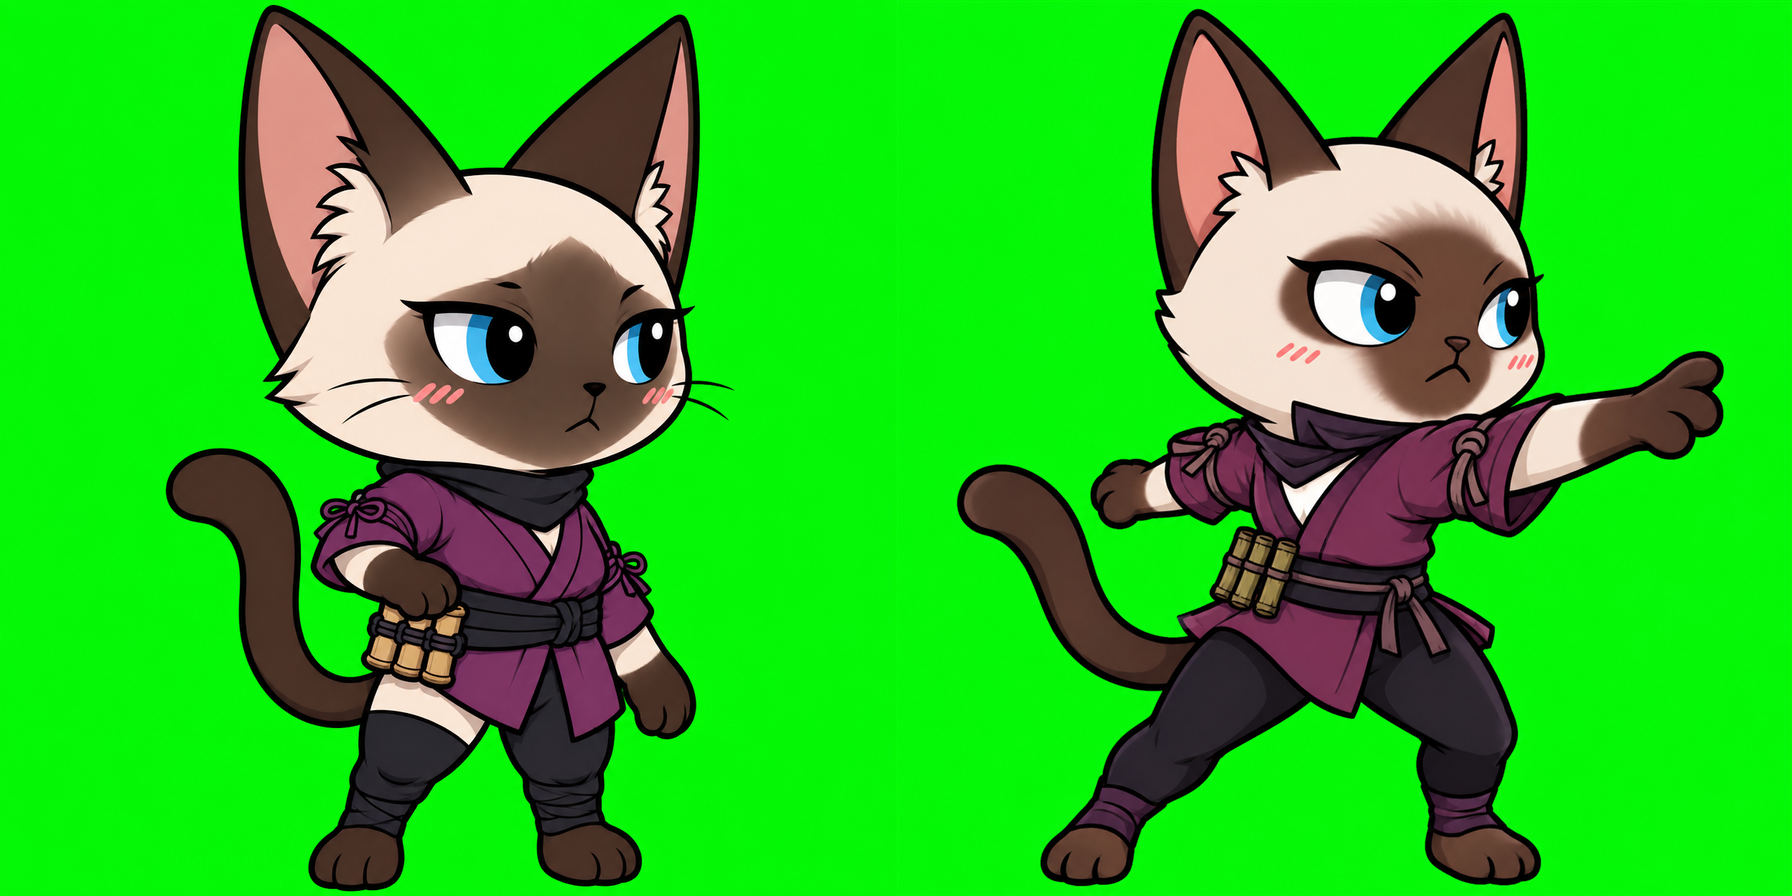
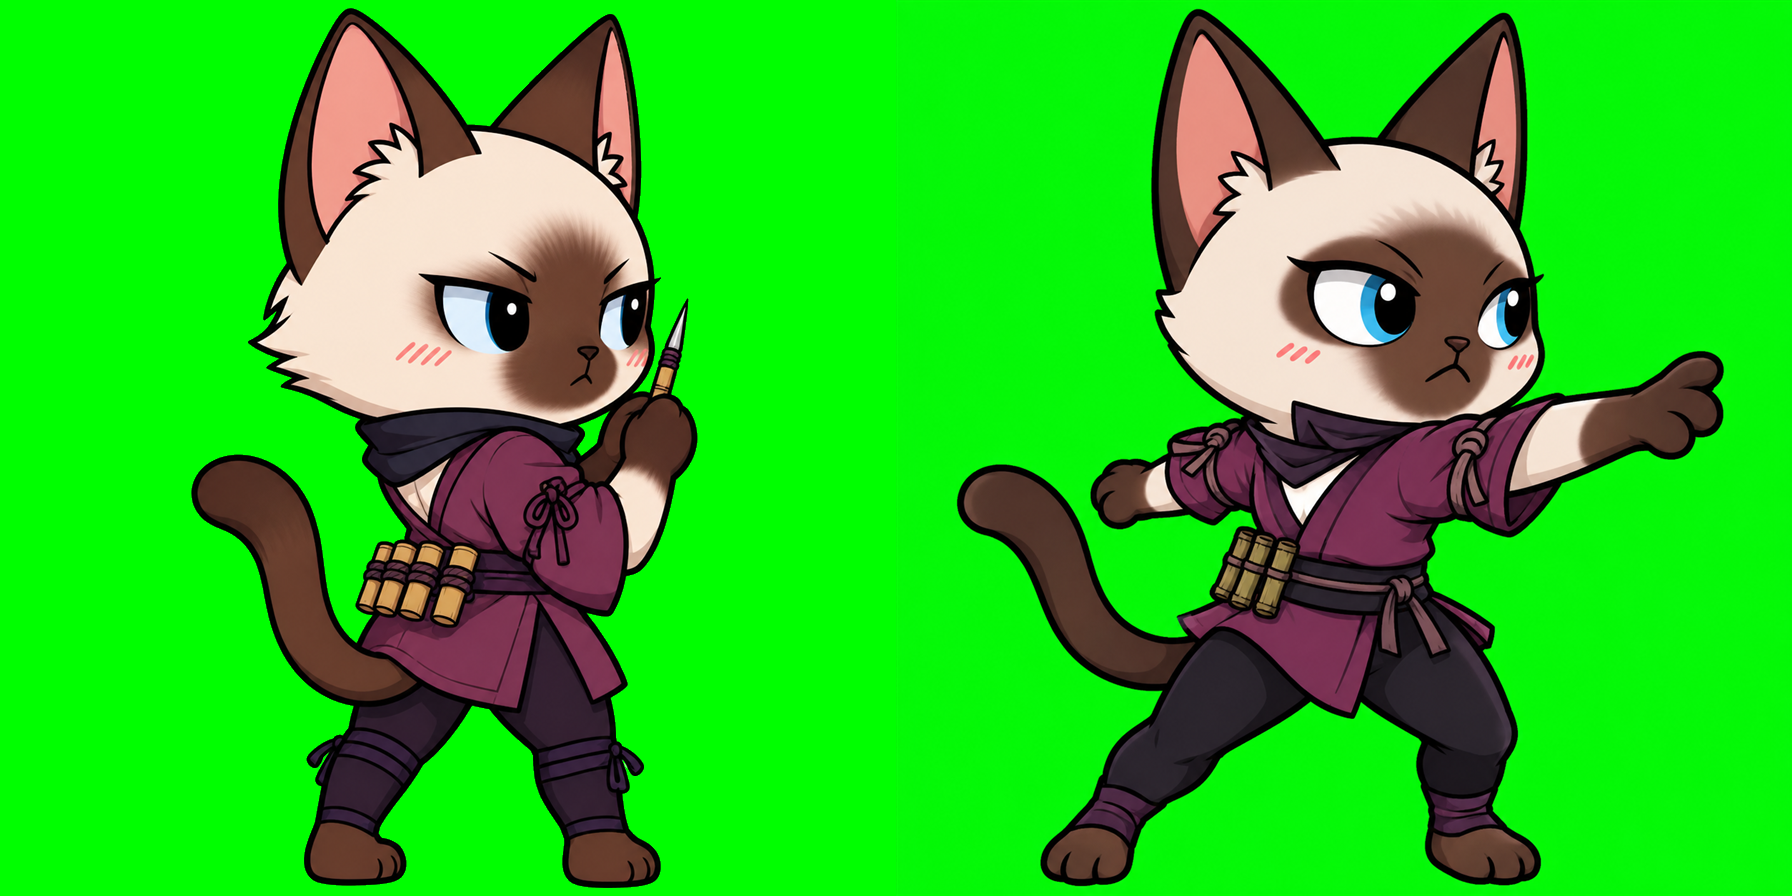
菲菲立繪：參考圖換成兩張都朝右的，art_rules 補上第四個雷
`idle` 連生兩次都畫成正面、頭還轉向左。提示詞裡 "FACING RIGHT" 寫了兩次、
又加寫「鼻子與視線指向右邊緣」，全部沒用——**病根是參考圖本身**：
左半那張 A 是正面站姿，模型畫站姿時直接照抄它的朝向。

改法
- 參考圖換成 B（三分之三側臉）＋ D（動作），**兩半都朝右**，把「正面」這個範例拿掉
- 朝向那句改寫成「從她左側看的三分之三角度、鼻子明顯在頭部中線右邊、**這不是正面視角**」
- 補一句「連**角度**也要跟參考圖一樣」——原本只說「角色設計一樣」，模型只抄長相不抄角度
- 第三次一次就過：鼻子在中線右邊、看得到左臉頰、視線往右，跟球球 idle 同一套（身體正面、頭轉向右）

art_rules.py 檔頭補上第四個雷（那是所有生圖工單共用的規則檔）：
參考圖會被讀走的不只是長相還有角度；辨識訊號是「同一張連兩次都是**同一種**錯」
——那就是參考圖在教它，不是提示詞不夠重。

舊參考圖與淘汰的草稿都改名留著（不刪，照產線規矩），`tools/codex_raw_badface/` 已進 .gitignore。

Changed region(s): [[0.125, 0.0, 0.4062, 1.0], [0.0938, 0.5, 0.1562, 0.5938]]

diff --git a/tools/art_rules.py b/tools/art_rules.py
@@ -17,6 +17,14 @@
 ★ 第二個雷：參考圖會被讀成「要畫這個」，不只是「照這個畫風」。拿隊友的立繪當比例基準，
   三張序章圖全被塞進一隻隊友；拿掉之後模型改成複製第二隻主角。要明寫「畫面裡只有一個角色」。
 
+★ 第四個雷（2026-09-12 做菲菲時踩的）：**參考圖會被讀走的不只是長相，還有角度。**
+  菲菲的參考圖左半放了一張正面站姿，結果 `idle` 連生兩次都畫成正面、頭還轉向左——
+  提示詞裡 "FACING RIGHT" 寫了兩次、還加寫「鼻子與視線指向右邊緣」，全部輸給那張圖。
+  改成兩半都用朝右的三分之三側面之後一次就過。
+  **做法：參考圖裡不要放任何一張跟目標朝向不同的圖**，而且提示詞要明講
+  「連角度也要跟參考圖一樣」——只說「角色設計一樣」模型只會抄長相。
+  辨識訊號：同一張連兩次都是同一種錯（不是隨機的錯），八成是參考圖在教它，不是提示詞不夠重。
+
 ★ 第三個雷：綠幕上任何綠色或半透明的東西，去背後都會變成破洞。光是禁「不要寫綠色」不夠——
   沒指定顏色時模型會自己挑到綠色（86 張牌裡 22 張寫「發光」、12 張寫「霧氣煙塵」都中招）。
 """

diff --git a/tools/make_feifei_art_jobs.py b/tools/make_feifei_art_jobs.py
@@ -143,7 +143,8 @@ def hero_jobs() -> dict[str, str]:
         jobs[fid] = (
             LOOK + " " + GEAR_LOOK +
             "\n\nPose: " + text + FRAMING.get(pose, FRAMING_DEFAULT) +
-            "\nKeep the exact same character design as the reference image - only the pose and expression "
+            "\nKeep the exact same character design AND the same right-facing three-quarter angle as the "
+            "reference image (both halves of it face right) - only the pose and expression "
             "differ. There is exactly ONE character in the picture: no second cat, nobody else.\n"
             "Draw everything SOLID and OPAQUE. Nothing else in the picture: no ground line, no shadow, no "
             "scenery, no text, no letters, no watermark, no border.\n"
